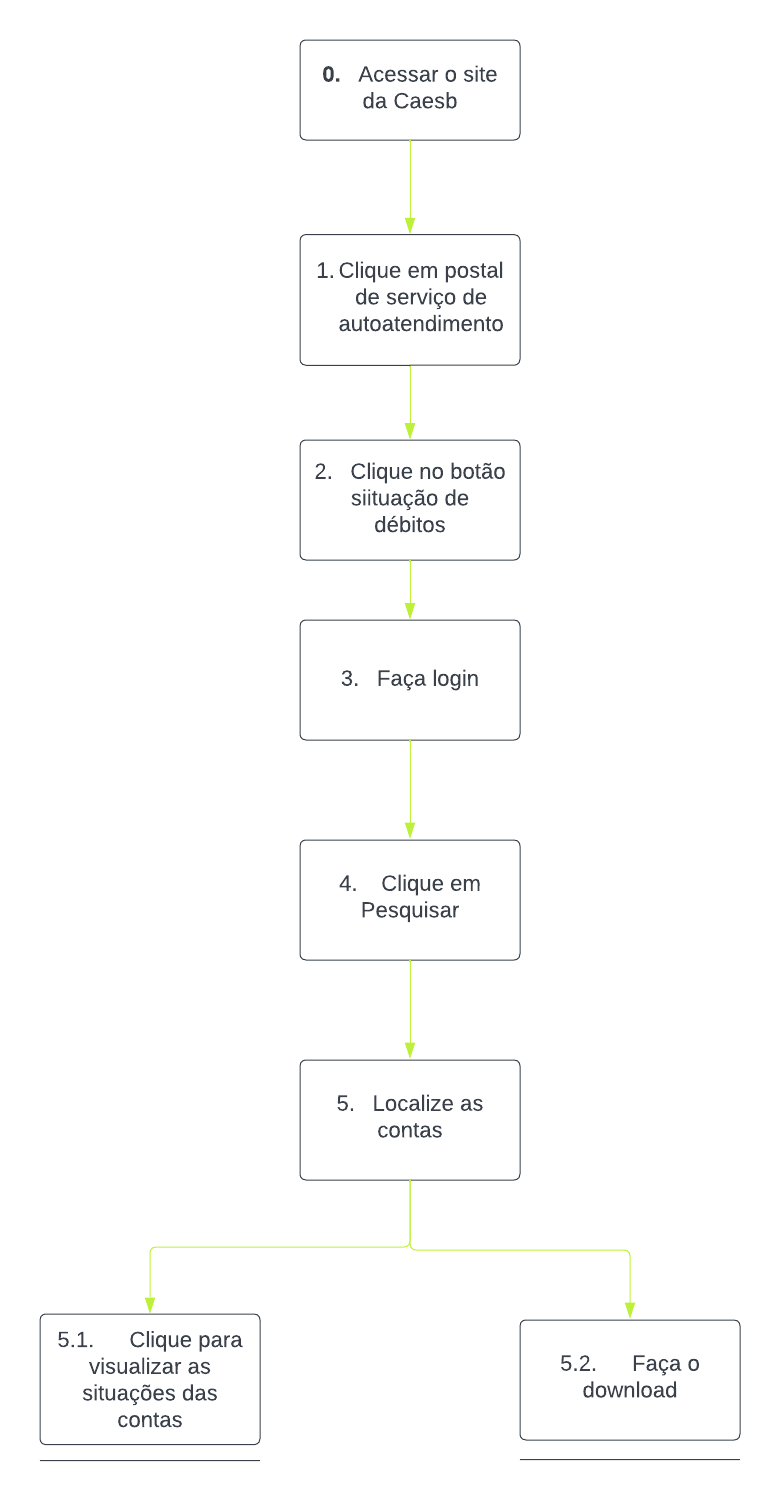
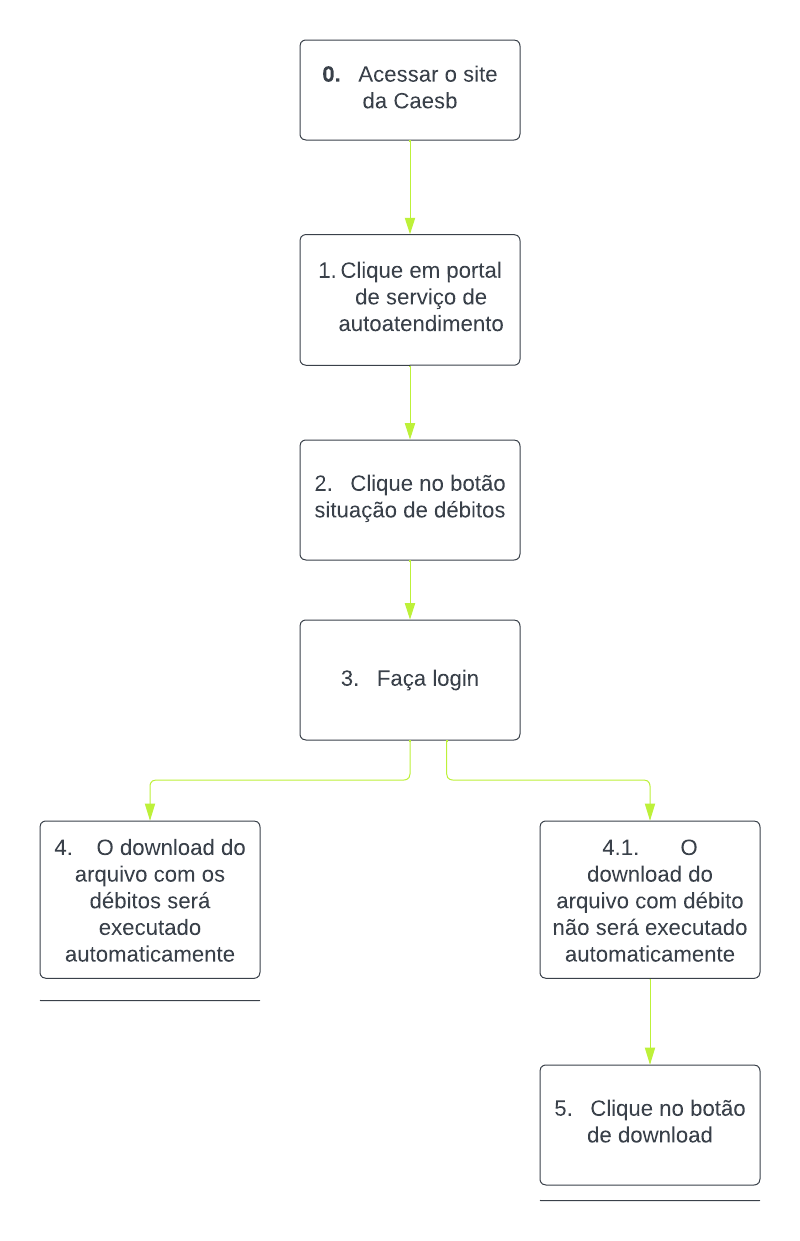
Arruma hta situação de débitos

diff --git a/docs/analise-de-requisitos/analise-de-tarefas/HTA.md b/docs/analise-de-requisitos/analise-de-tarefas/HTA.md
@@ -229,9 +229,9 @@
 | 2. Clique no botão situação de débitos | **feedback** : usuário e redirecionado para a paǵina de efetuar login|
 | 3. Faça login |**input**: Dados de login.<br>**feedback**: o usuário é redirecionada para a página de situações de débitos.|
 | 3. Clique em pesquisar | **feedback**: o usuário será redirecionado para uma página com todos os débitos.<br>|
-| 4. Localize as conta  | **plano**: o usuário deve achar a conta desejada.<br>|
-| 4.1 Clique para visualizar as situações da conta  | **feedback**: irá aparecer as situações dos débitos do usuário<br>|
-| 4.2 faça o download  | **feedback**: o download da conta em PDF irá começar. <br>|
+| 4. O download do arquivo com os débitos será executado automatimente  | **feedback**: o download dos débitos em PDF irá começar e o usuário será redirecionado para a página de download de débitos.<br>|
+| 4.1. O download do arquivo com débito não será executado automaticamente  | **feedback**: O usuário será redirecionado para a página de download de débitos <br>|
+| 5. Clique no botão de download  | **feedback**: o download dos débitos em PDF irá começar. <br>|
 
 
 <font size="3"><p style="text-align: center">Fonte: <a href="https://github.com/OscarDeBrito" target="_blank">Oscar de Brito</a></p></font>
